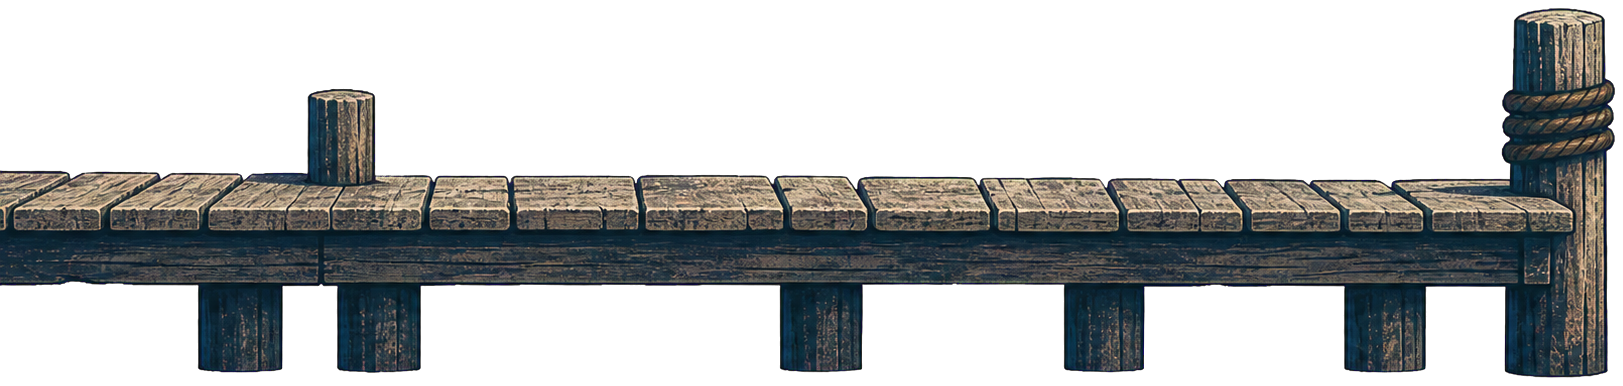
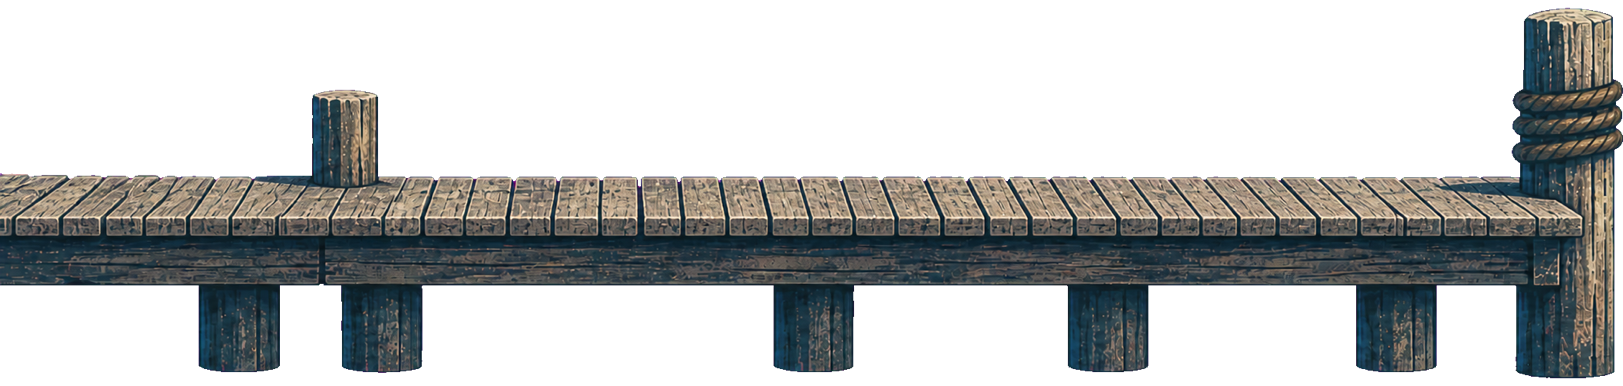
fix: regenerate dock plank scale

Changed region(s): [[0.0, 0.0, 1.0, 0.9948]]

diff --git a/Docs/Asset-Manifest.md b/Docs/Asset-Manifest.md
@@ -45,10 +45,11 @@ The boat, harbor pier, fish atlas, and world atlas were requested on a uniform `
 ### `harbor-pier.png`
 
 - Runtime role: long shoreline-connected pier for both harbors; mirrored at the right shore
-- Generated source size: 1774 × 887
+- Generated source size: 2148 × 732
 - Runtime cropped size: 1623 × 386 with authored alpha
-- Generation mode: GPT Image style-transfer using `lake-chart.png` as the painting reference and `world-atlas.png` as the material reference
-- Prompt: “Use case: style-transfer. Asset type: side-view shoreline pier sprite for the FSHING browser game. Image 1 is the authoritative lake panorama and painting-style reference; Image 2 is the existing world sprite atlas and material/detail reference. Create one long, low wooden harbor pier in strict orthographic side profile. The pier must clearly enter from the left canvas edge, continue horizontally across roughly 80% of the canvas, and end over the water with a substantial outer mooring post. Include a row of irregular weathered deck planks, dark supporting pilings below, rope wrapping on the outer post, and one smaller inner post. The left landward end must be cut off flush by the canvas edge so it reads as physically connected to an unseen shoreline, never as a complete floating platform. Use restrained editorial gouache and screen-print illustration matching the supplied lake exactly: soft dry-brush edges, visible aged-paper grain, simplified shapes, subdued detail. Use desaturated weathered gray-brown timber, muted ink navy shadows, gray-cream highlights, and tiny restrained ochre accents. Single continuous pier only, long and horizontal, strict side elevation, with the landward structure touching and exiting the left edge. Use a perfectly uniform full-bleed pure chroma-magenta #FF00FF matte for background removal. No boat, person, buildings, water, shore, reflection, cast shadow, text, labels, border, or grid. Avoid an isolated short floating platform, centered object with space on both ends, top-down view, diagonal perspective, glossy 3D, clip-art, cel shading, hard black outline, saturated orange, or photorealism.”
+- Generation mode: built-in image edit using the previous `harbor-pier.png` as the composition target, `lake-chart.png` as the painting-style reference, and `player-boat.png` as the scale reference
+- Prompt: “Use case: precise-object-edit. Asset type: runtime harbor-pier sprite for a side-on 2D browser game. Image 1 is the edit target and authoritative pier composition. Image 2 is the authoritative painting-style, atmosphere, and palette reference only. Image 3 is a scale reference only; do not include the boat. Regenerate the pier from Image 1 so the same overall pier footprint contains far more, much narrower deck planks. Replace the current roughly 18 oversized deck boards with approximately 40 distinct narrow plank divisions distributed evenly across exactly the same deck length. Make each board read as ordinary dock timber at the scale of the boat in Image 3. Refine the horizontal fascia boards and supporting pilings to the same smaller construction scale without making the structure visually busy. Preserve exactly one long, low, weathered wooden pier in strict orthographic side profile; the same left-edge shoreline cut, full pier length, deck height, thickness, outer edge, two above-deck mooring posts, rope wrapping, and supporting-pile arrangement; the original muted ink-navy, gray-brown, and cream palette; restrained editorial gouache/screen-print painting, dry-brush edges, aged-paper grain, and subdued contrast matching Image 2; and an uncluttered, readable silhouette at gameplay size. Use a very wide horizontal composition with the pier touching and exiting the left edge, a substantial rope-wrapped outer mooring post at the far right, all geometry fully visible vertically, and modest padding. Use a perfectly uniform full-bleed pure chroma-magenta #FF00FF matte for background removal with no texture, gradient, shadow, floor, water, reflection, checkerboard, or lighting variation. Do not use #FF00FF anywhere in the pier. Change only timber scale and plank density; preserve the recognizable pier design and orientation. No boat, people, buildings, landscape, water, text, UI, border, grid, extra objects, detached boards, or watermark. Avoid wide cabin-sized planks, fewer than 32 visible plank divisions, top-down perspective, diagonal perspective, floating isolated platform, glossy 3D, hard black outline, saturated color, or photorealism.”
+- Post-processing: hard chroma key sampled from the generated border with 45 tolerance, despill, and one-pixel edge contraction; cropped to the alpha bounds and runtime aspect ratio so the shoreline cut and outer post meet opposite canvas edges, then uniformly resized to 1623 × 386
 
 ### `fshing-wordmark.png`
 

diff --git a/Docs/Game-Brief.md b/Docs/Game-Brief.md
@@ -679,7 +679,7 @@ Every authored visual asset in this slice is generated with GPT Image 2.0. No pr
 | `fshing-wordmark.png` | Restrained title-screen identity |
 | `lake-chart.png` | Side-on panoramic sky, distant shore, waterline, and lake atmosphere |
 | `player-boat.png` | Player vessel in strict side profile on a chroma-key matte |
-| `harbor-pier.png` | Long weathered side-view harbor pier that extends from either shoreline |
+| `harbor-pier.png` | Long weathered side-view harbor pier that extends from either shoreline; its fixed footprint uses roughly 36–44 narrow deck-plank divisions so the timber scale remains believable beside the player boat |
 | `fish-atlas.png` | Fishing-hook sprite and retained original fish reference cells |
 | `fish-atlas-v2.png` | Nine independently generated, silhouette-distinct species in a strict 3 × 3 atlas |
 | `world-atlas.png` | Side-view buoy, fishing marker, fog, night-wake, and retained legacy sprites on a chroma-key matte |
